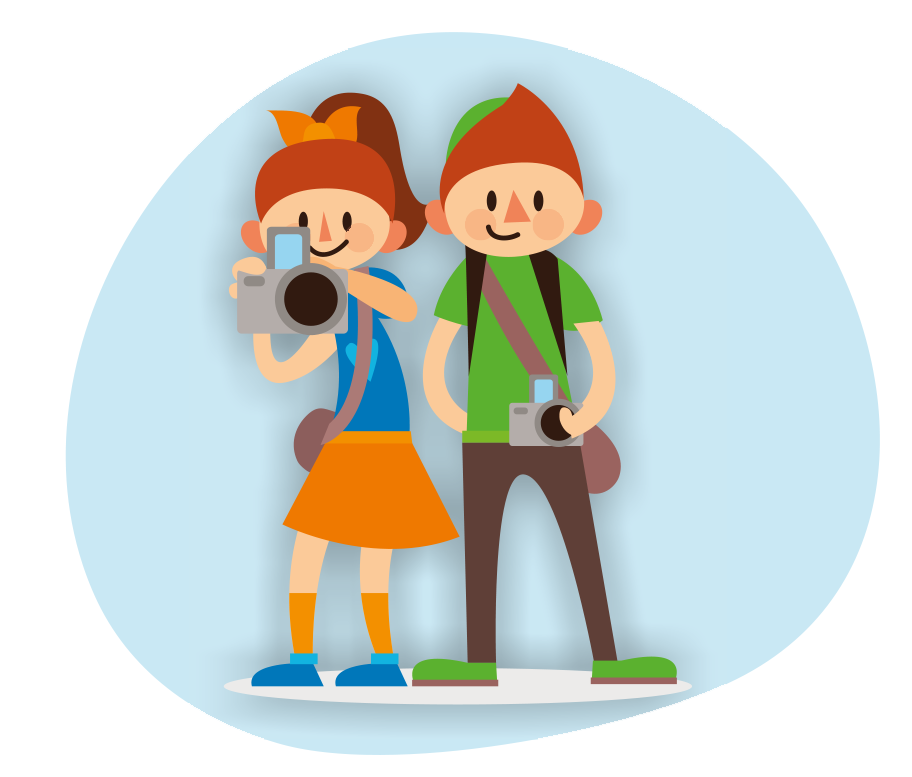
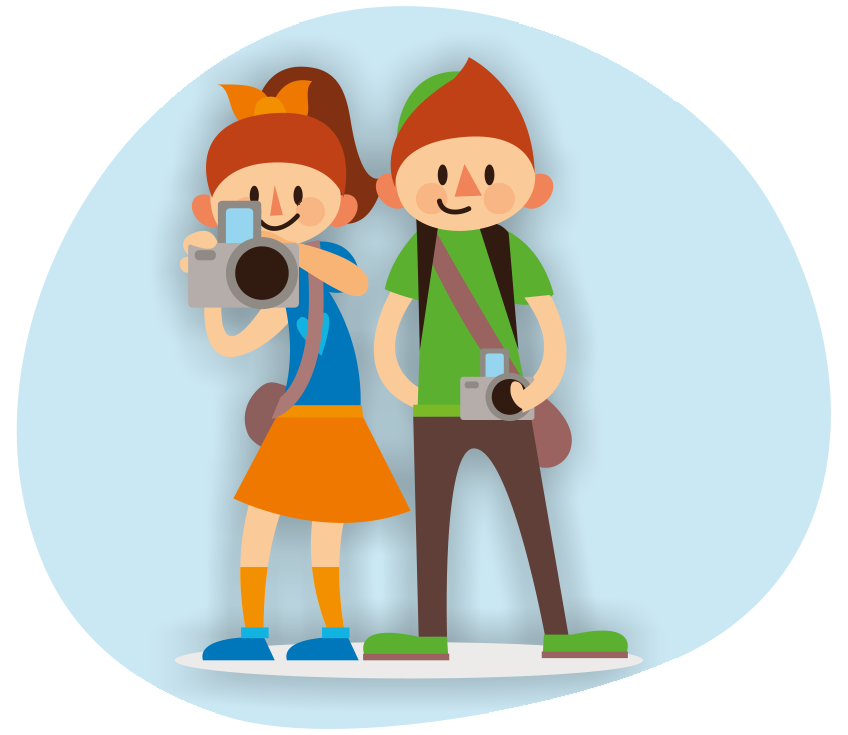
Padronização das imagens do How It Works e margem inferior no bloco

Changed region(s): [[0.0, 0.0, 0.9811, 1.0]]

diff --git a/public_html/less/areas/how-it-works.less b/public_html/less/areas/how-it-works.less
@@ -1,4 +1,6 @@
 div#how-it-works {
+	margin-bottom: 30px;
+	
 	.row {
 		margin-top: 20px;
 		
